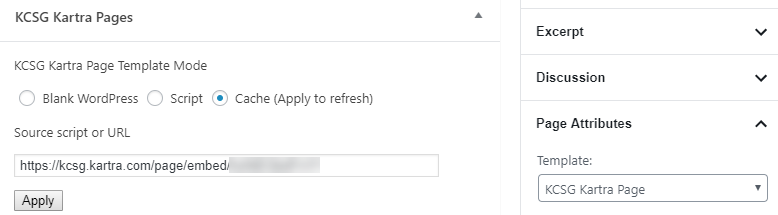
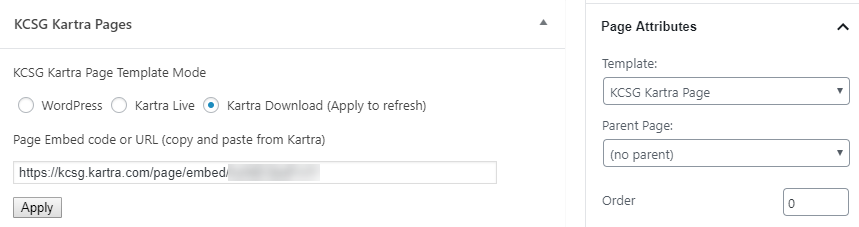
KCSG Kartra Pages 0.0.4 Beta
Improved the admin input labels and response texts.

Now accepts kartra.com page links as an alternative to an embed code or URL.

Now generates the custom page loader from the template file instead of
caching the loader in the database.

diff --git a/admin.php b/admin.php
@@ -25,7 +25,7 @@ function kcsg_kp_render_meta( $post ) {
 
     // Localizations
     $mode_section = esc_html__( 'KCSG Kartra Page Template Mode', 'kcsg-kartra-pages' );
-    $source_or_url = esc_html__( 'Source script or URL', 'kcsg-kartra-pages' );
+    $source_or_url = esc_html__( 'Page Embed code or URL (copy and paste from Kartra)', 'kcsg-kartra-pages' );
     $apply = esc_html__( 'Apply', 'kcsg-kartra-pages' );
     $save_first = esc_js( __( 'Please save draft or publish first.', 'kcsg-kartra-pages' ) );
     $processing = esc_js( __( 'Processing request...', 'kcsg-kartra-pages' ) );
@@ -164,10 +164,23 @@ function kcsg_kp_ajax_set() {
 	    $new_url = '';
 	}
     } else if ( preg_match( '/https:[_a-z0-9\/.-]+/i', $new_source, $matches ) ) {
-	// We have simplistic validation of a non-empty source
+	/*
+	 * We have simplistic validation of a non-empty source.
+	 * Now check for some Kartra specifics.
+	 */
 	$new_url = $matches[ 0 ];
+	if ( false === strpos( $new_url, '.kartra.com/page' ) ) {
+	    kcsg_kp_return_fail( __( 'A kartra.com page URL is required. For custom-domain pages, use the page Embed code.' ) );
+	}
+	if ( false === strpos( $new_url, '/page/embed/' ) ) {
+	    /*
+	     * Change page URLs to embedded-page URLs, but leave embed-script
+	     * URLs alone. Confused yet?
+	     */
+	    $new_url = str_replace( '/page/', '/page_embed/', $new_url );
+	}
     } else {
-	kcsg_kp_return_fail( __( 'Invalid source', 'kcsg-kartra-pages' ) );
+	kcsg_kp_return_fail( __( 'Invalid URL format', 'kcsg-kartra-pages' ) );
     }
 
     // Refresh or clear the cache
@@ -211,77 +224,35 @@ function kcsg_kp_return_fail( $text ) {
     wp_die();
 }
 
-// Fetch the page contents by page loader URL
-function kcsg_kp_fetch_page( $loader_url, $mode ) {
-    // Step 1: Fetch the page loader (JavaScript) if the URL is valid
-    if ( false == strpos( $loader_url, '.kartra.com/page/embed/' ) ) return '';
-    $script = @file_get_contents( $loader_url );
+// Fetch whatever we'll need to display the page
+function kcsg_kp_fetch_page( $given_url, $mode ) {
+    if ( false !== strpos( $given_url, '.kartra.com/page/embed/' ) ) {
+	// Fetch the page loader if given the page-loader URL
+	$script = @file_get_contents( $given_url );
 
-    // Step 2: Fetch the page HTML if we find a valid URL in the page loader
-    if ( ! preg_match( "/= '(https:[_a-z0-9\/.-]+)'/i", $script, $matches ) ) return '';
-    $url = $matches[ 1 ];
+	// Grab the embedded-page URL from the page loader
+	if ( ! preg_match( "/= '(https:[_a-z0-9\/.-]+)'/i", $script, $matches ) ) return '';
+	$url = $matches[ 1 ];
+    } else {
+	// Proceed with the given URL if it's not a page-loader URL
+	$url = $given_url;
+    }
+
+    // By this point, we need the embedded-page URL
     if ( false == strpos( $url, '.kartra.com/page_embed' ) ) return '';
 
     if ( 'script' == $mode ) {
-	return kcsg_kp_loader_page( $url );
+	/*
+	 * We'll be using our custom page-loader script, so all we need
+	 * to save is the embedded-page URL.
+	 */
+	return "LOAD $url";
     }
 
     $page = @file_get_contents( $url );
 
-    /*
-     * Kartra always includes one shortcut icon link referencing the Kartra-
-     * brand favicon (except for Kartra-served pages configured for a custom
-     * domain URL and favicon). For here, we'll display the page with the
-     * locally-configured icons.
-     */
+    // Return the page with locally-configured WordPress site icons
     return preg_replace( '/<link[^>]+rel=.(?:shortcut )?icon[^>]+>/', kcsg_kp_site_icons(), $page );
-}
-
-// Retun our custom page loader
-function kcsg_kp_loader_page( $url ) {
-    $icons = kcsg_kp_site_icons();
-    return <<<HTML
-<!doctype html>
-<html>
-<head>
-<meta name='viewport' content='width=device-width, initial-scale=1.0'>
-<meta name='description' content=''>
-<meta name='keywords' content=''>
-<meta name='robots' content=''>
-$icons
-<script>
-document.addEventListener('DOMContentLoaded', function () {
-    var page = document.getElementById('page');
-    var reloadable = true;
-
-    window.addEventListener('message', function (event) {
-	var data = event.data;
-	console.log('Parent message event', event);
-	if ('no_visitor_cookie' === data.error && reloadable) {
-	    reloadable = false;
-	    page.src = 'https://app.kartra.com/front/domain_validation?step=1&domain=kartra.com&url=$url';
-	    return;
-	}
-
-	if (data.title) {
-	    document.title = data.title;
-	}
-
-	['description', 'keywords', 'robots'].forEach((meta) => {
-	    if (data[meta]) {
-		document.getElementsByName(meta)[0].content = data[meta];
-	    }
-	  });
-      }, false);
-
-    page.src = '$url';
-  }, false);
-</script>
-</head>
-<body>
-<iframe id='page' style='width: 100%; height: 100%; position: absolute; top: 0px; left: 0px; border: none;' scrolling='yes' allowfullscreen='yes'>
-</body>
-HTML;
 }
 
 // Capture the site icon tags as a string

diff --git a/kcsg-kartra-page.php b/kcsg-kartra-page.php
@@ -2,7 +2,7 @@
 /*
  * KCSG Kartra Page template
  *
- * Include either the loader <script> in an absolutely bare-bones
+ * Include either the loader script in an absolutely bare-bones
  * HTML page or the cached full-page content AS IS.
  *
  * Author: Brian Katzung, Kappa Computer Solutions, LLC <briank@kappacs.com>
@@ -11,6 +11,7 @@
  */
 $kcsg_kp_sent_head = false;
 
+// Send headers once if falling back to blank/WordPress mode
 function kcsg_kp_send_head() {
     global $kcsg_kp_sent_head;
 
@@ -29,6 +30,51 @@ function kcsg_kp_send_head() {
     $kcsg_kp_sent_head = true;
 }
 
+// Generate our custom page-loader page
+function kcsg_kp_loader_page( $url ) {
+?><!doctype html>
+<html>
+<head>
+<meta name='viewport' content='width=device-width, initial-scale=1.0'>
+<meta name='description' content=''>
+<meta name='keywords' content=''>
+<meta name='robots' content=''>
+<?php wp_site_icon(); ?>
+<script>
+document.addEventListener('DOMContentLoaded', function () {
+    var page = document.getElementById('page');
+    var reloadable = true;
+
+    window.addEventListener('message', function (event) {
+	var data = event.data;
+	console.log('Parent message event', event);
+	if ('no_visitor_cookie' === data.error && reloadable) {
+	    reloadable = false; // Max 1 reload
+	    page.src = 'https://app.kartra.com/front/domain_validation?step=1&domain=kartra.com&url=<?php echo $url ?>';
+	    return;
+	}
+
+	if (data.title) {
+	    document.title = data.title;
+	}
+
+	['description', 'keywords', 'robots'].forEach((meta) => {
+	    if (data[meta]) {
+		document.getElementsByName(meta)[0].content = data[meta];
+	    }
+	  });
+      }, false);
+
+    page.src = '<?php echo $url ?>';
+  }, false);
+</script>
+</head>
+<body>
+<iframe id='page' style='width: 100%; height: 100%; position: absolute; top: 0px; left: 0px; border: none;' scrolling='yes' allowfullscreen='yes'>
+</body>
+<?php
+}
+
 while ( have_posts() ) {
     the_post();
     $id = get_the_ID();
@@ -37,13 +83,19 @@ while ( have_posts() ) {
     case 'script':	# Kartra Live
     case 'cache':	# Kartra Download
 	/*
-	 * Display either the cached custom page loader (script/live mode)
+	 * Display either the custom page loader (script/live mode)
 	 * or the cached final page HTML (cache/download mode).
 	 * rawurldecode reverses our post_meta protections (see admin).
 	 */
 	$content = get_post_meta( $id, 'kcsg_kp_cache', true );
 	if ( ! empty( $content ) ) {
-	    echo rawurldecode( $content );
+	    $content = rawurldecode( $content );
+	    if ( 'LOAD ' == substr( $content, 0, 5 ) ) {
+		// "Content" is cached final page URL
+		kcsg_kp_loader_page( substr( $content, 5 ) );
+	    } else {
+		echo $content;
+	    }
 	    continue 2;
 	}
 	break;

diff --git a/plugin.php b/plugin.php
@@ -3,7 +3,7 @@
  * Plugin Name: KCSG Kartra Pages
  * Plugin URI: http://t1.kappacs.com/kcsg-kp
  * Description: Display Kartra pages on your WordPress site
- * Version: 0.0.3
+ * Version: 0.0.4
  * Author: Brian Katzung, Kappa Computer Solutions, LLC <briank@kappacs.com>
  * Copyright: 2019 by Brian Katzung and Kappa Computer Solutions, LLC
  * License: GPLv3 or later
